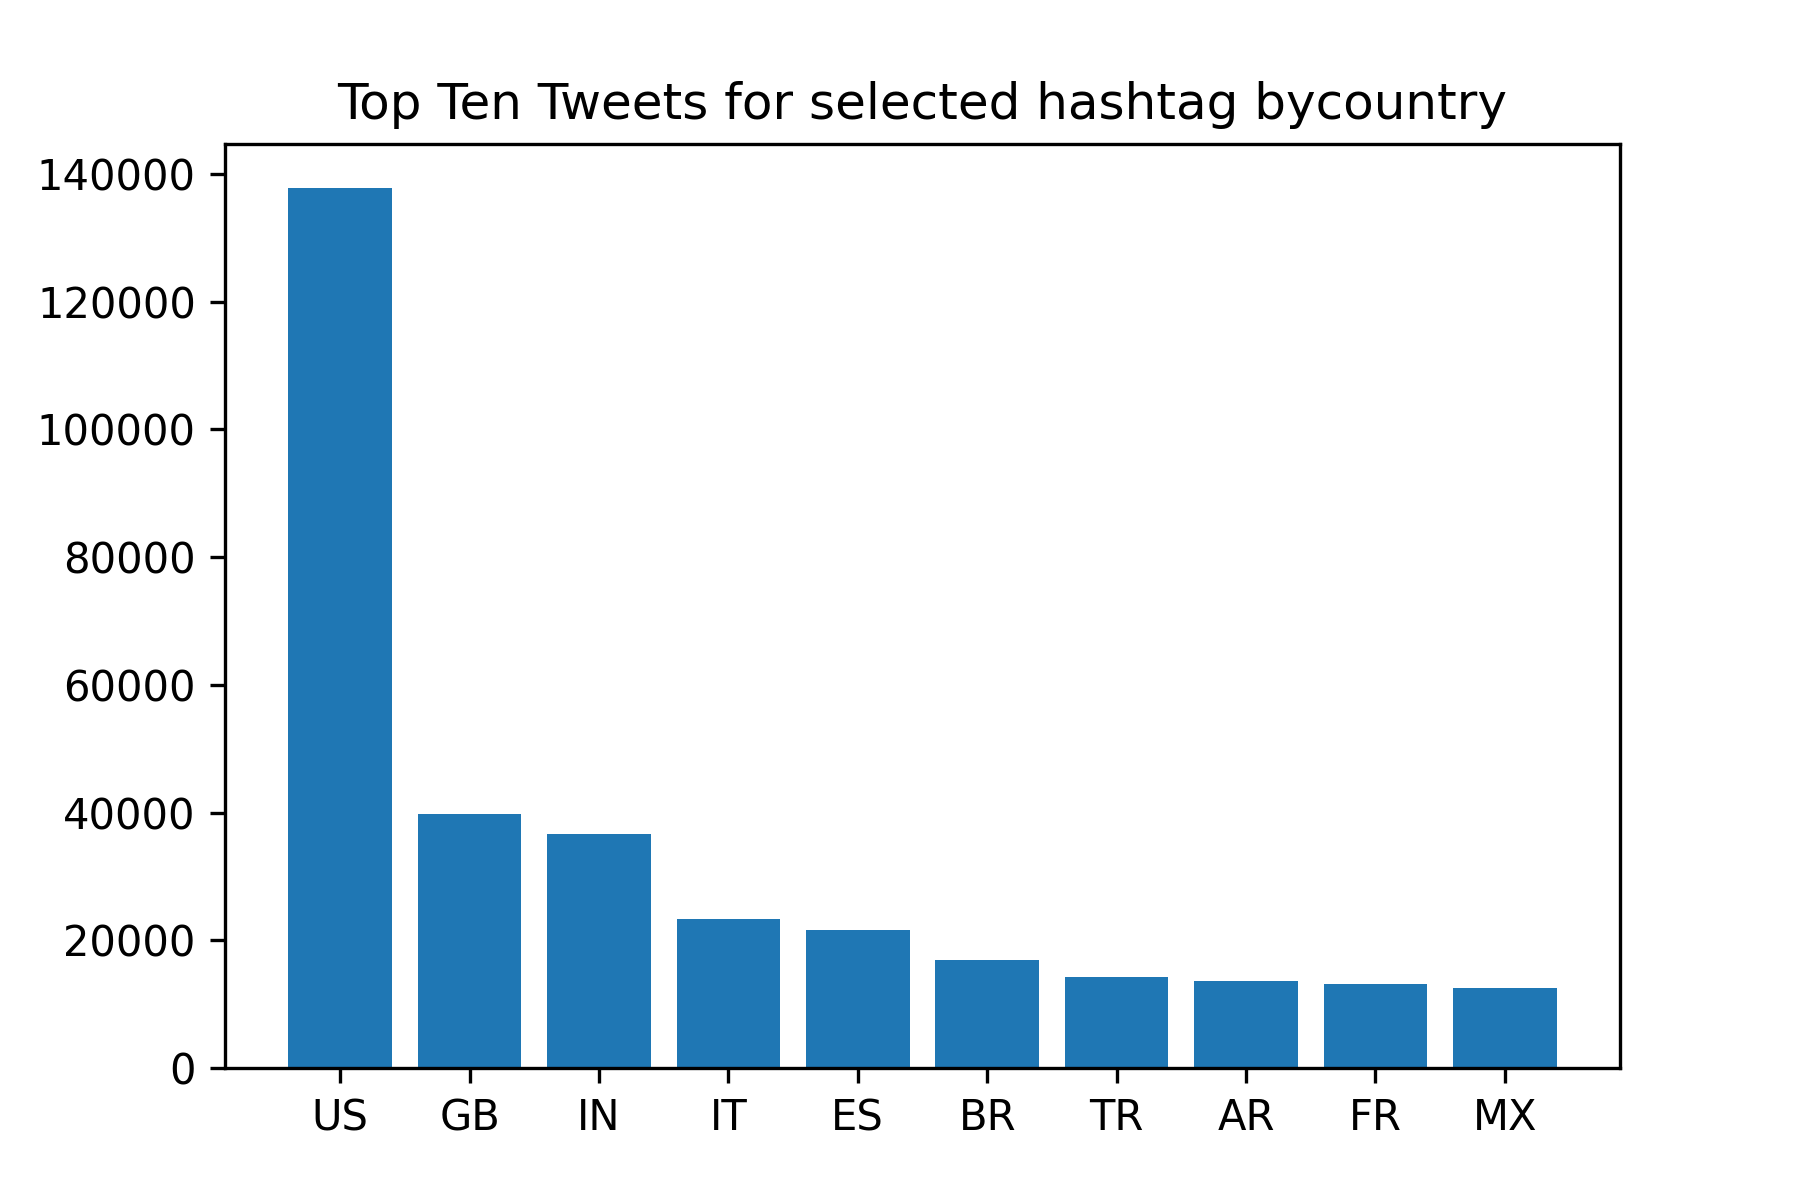
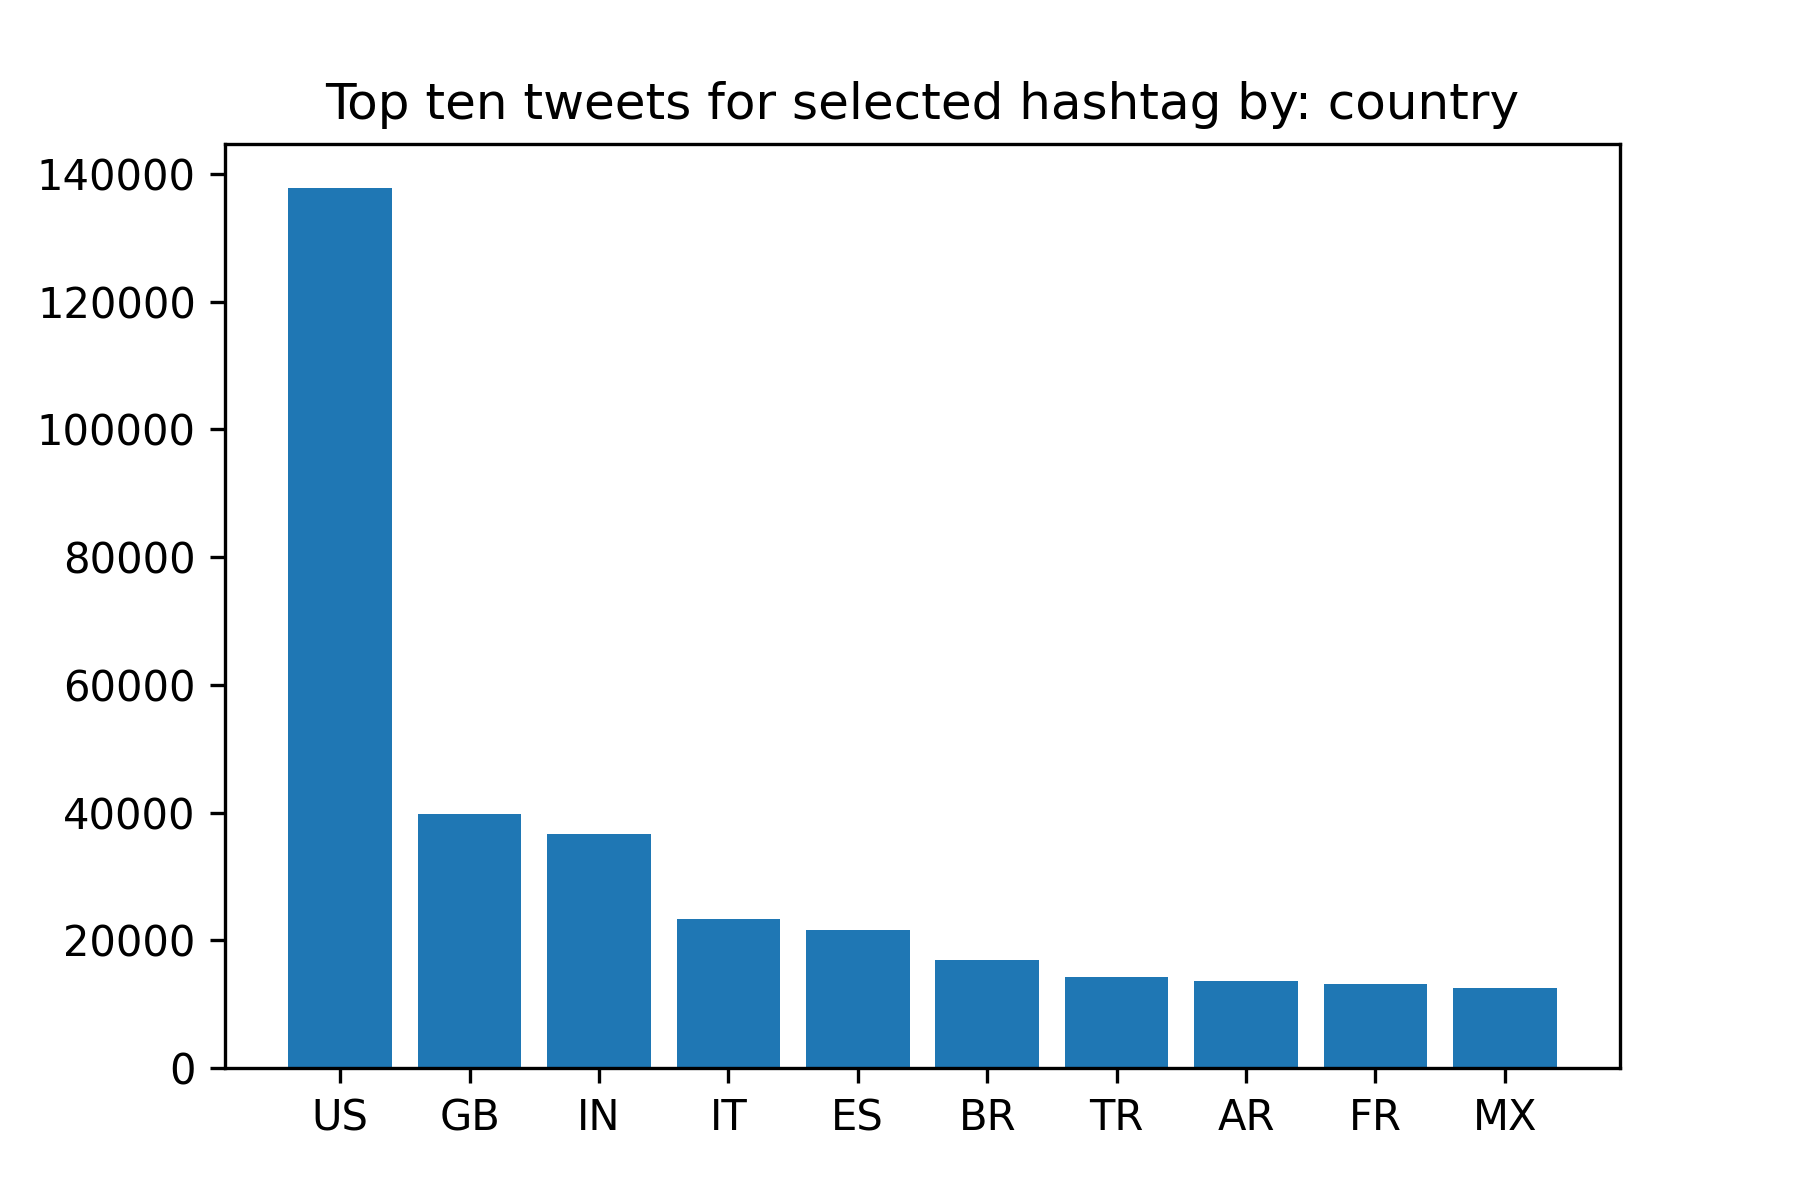
chart updates

Changed region(s): [[0.1867, 0.0617, 0.84, 0.1233]]

diff --git a/src/visualize.py b/src/visualize.py
@@ -45,7 +45,7 @@ plt.bar(categories, values)
 _, fileext = os.path.splitext(args.input_path)
 fileext = fileext[1:]
 
-plt.title("Top Ten Tweets for selected hashtag by" + str(fileext))
+plt.title("Top ten tweets for selected hashtag by: " + str(fileext))
 
 plt.savefig("plot"+str(fileext)+str(args.key), dpi = 300)
 
